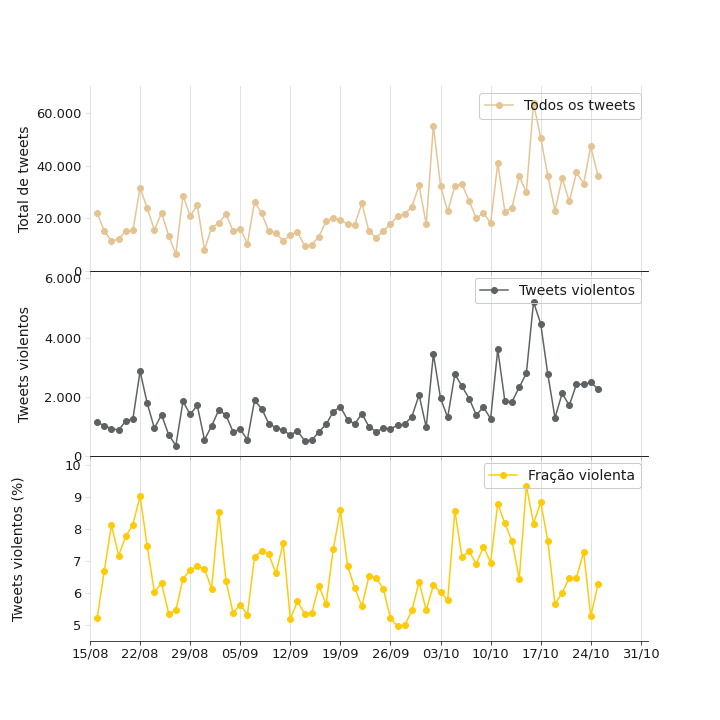
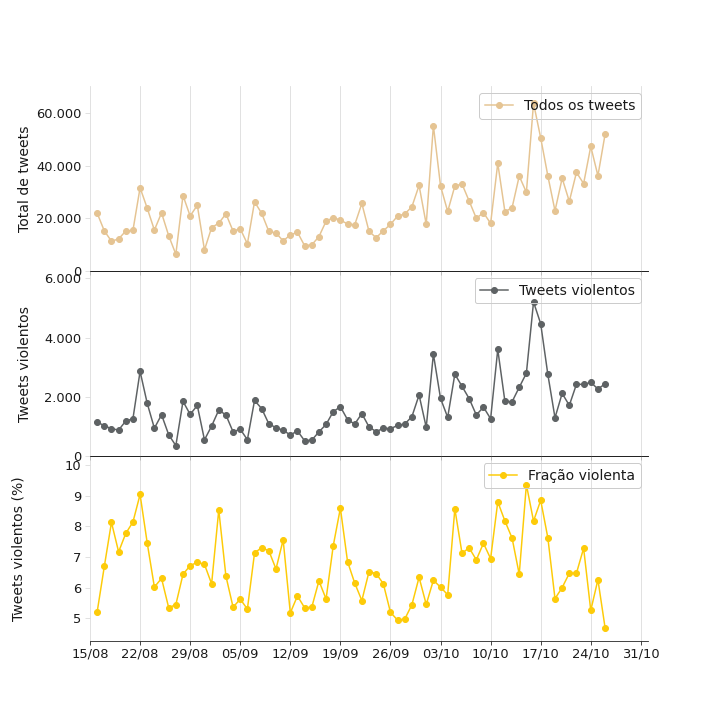
Auto-update webpage data >> 2022-10-27_04:04:18

diff --git a/assets/js/data.js b/assets/js/data.js
@@ -1,1 +1,1 @@
-data = '{"total_counts": 111599, "yesterday_counts": 2263, "time_series_plot": "../gitpage/assets/img/graficos/tweets_agressivos_por_dia_feminino.png", "last_update": "2022-10-26T04:04:14"}'
+data = '{"total_counts": 114026, "yesterday_counts": 2434, "time_series_plot": "../gitpage/assets/img/graficos/tweets_agressivos_por_dia_feminino.png", "last_update": "2022-10-27T04:04:18"}'
